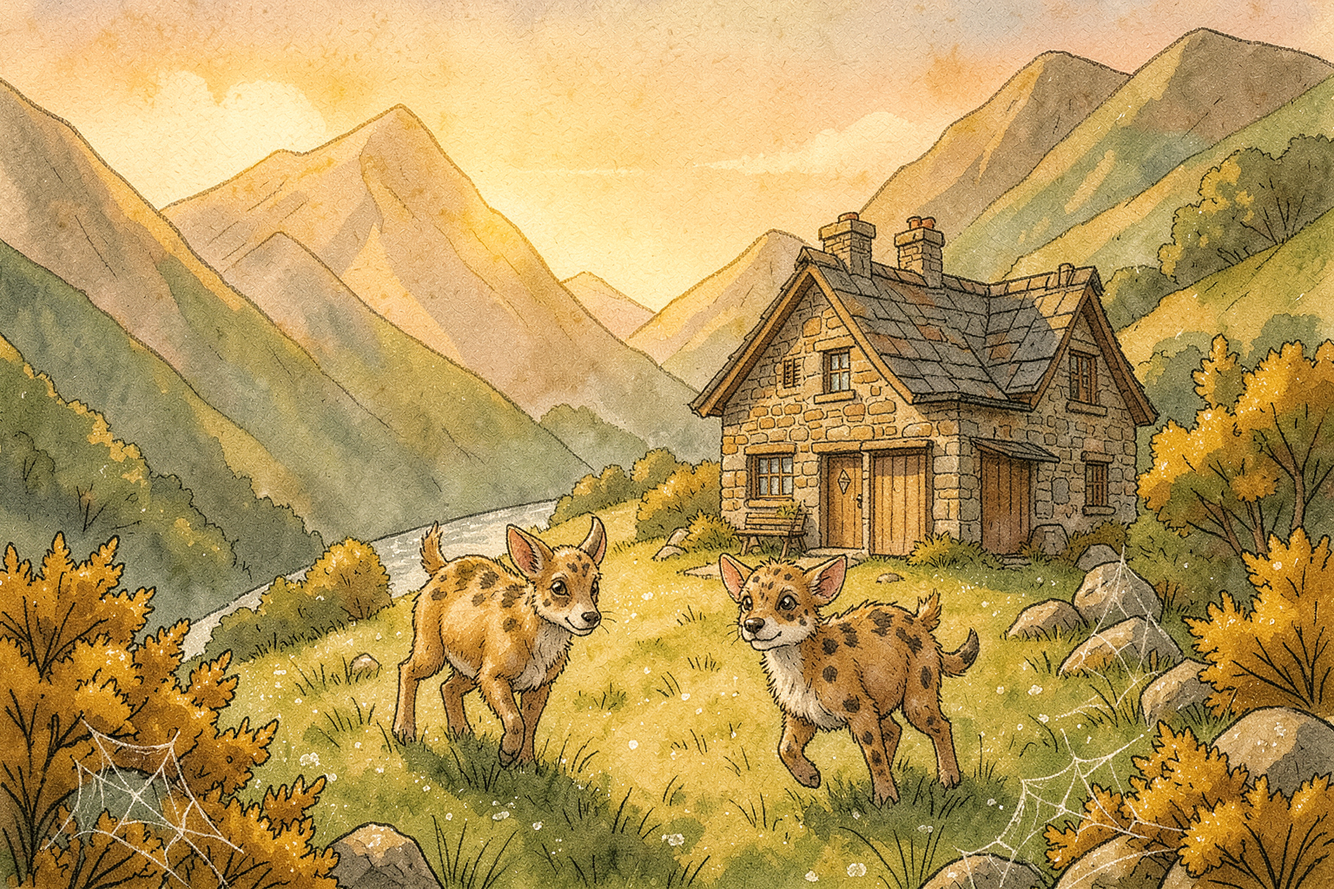
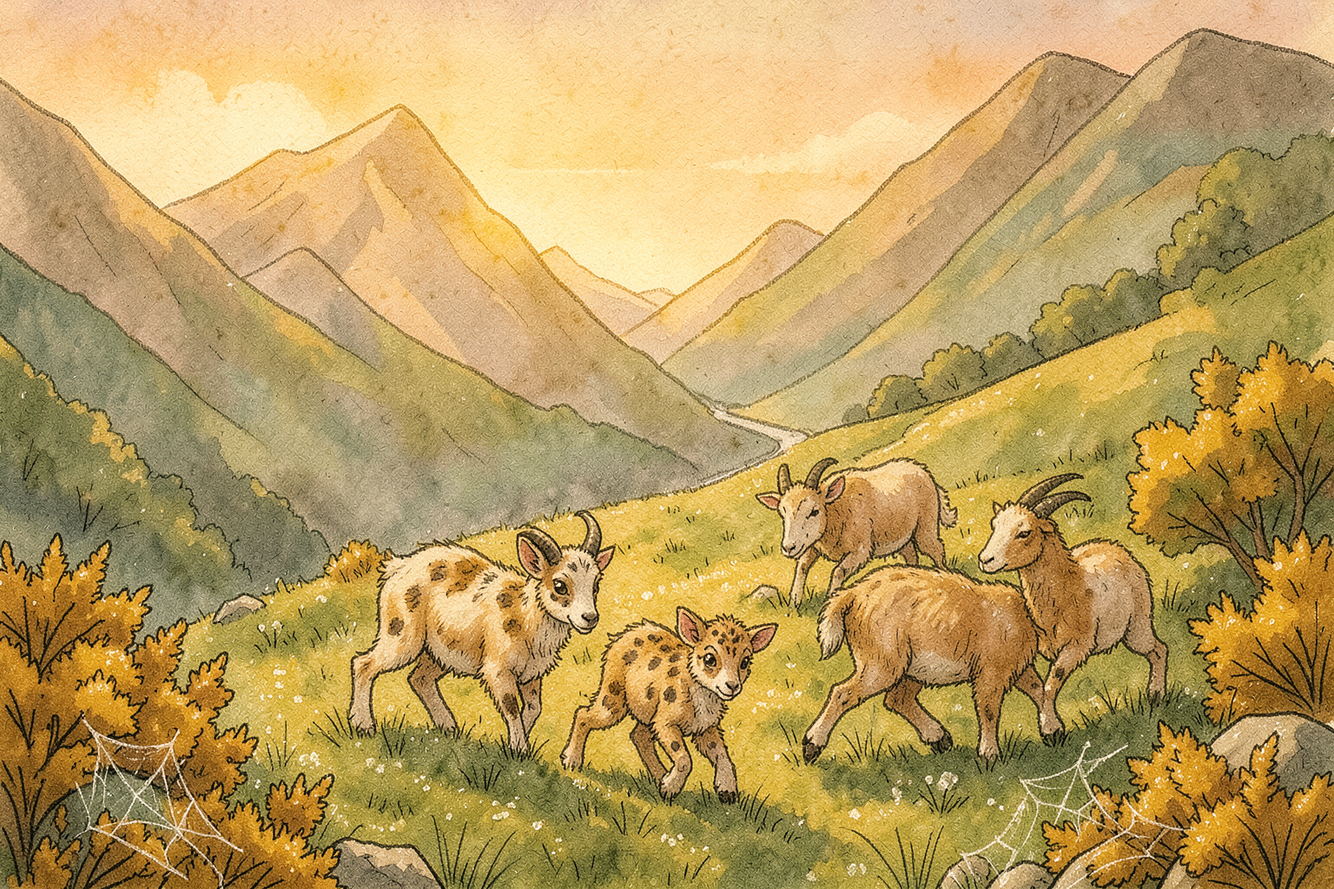
Bildprüfung: Perle 4 neu erzeugt

diff --git a/docs/art/szenen/perle-4/README.md b/docs/art/szenen/perle-4/README.md
@@ -184,3 +184,15 @@ Alle mit `tools/erzeuge-szene.ps1`, FLUX.2 klein 4B, je 6 Seeds. Übersichten: `
 | `szene-lamm-auf-der-strasse-liora` | behalten: wie Cassian |
 | `szene-freund-abgeholt-cassian` | Bildbearbeitung Seed 2: barhäuptig, eigene braune Mütze am Boden |
 | `szene-freund-abgeholt-liora` | Bildbearbeitung Seed 2: barhäuptig, eigene braune Mütze am Boden |
+
+| `figur-ashka` | neu, Seed 4: genau zwei Hände (Brust und Stab) |
+| `szene-ruf-wind` | neu, Seed 6: vier klar getrennte Gnolle; der Wind ist als weiße Wolkenbahn gemalt |
+| `szene-ruf-erde` | neu, Seed 1: getrennte Hyänen-Gnolle. Ein farbloser Hangstreifen ist in keinem Seed zu sehen |
+| `szene-landtor-morgen` | neu, Seed 5: kein Schatten des Betrachters, natürliche Berge; in der Kerbe steht in allen Seeds eine kleine Festung |
+| `szene-fremder-am-grauen` | neu, Seed 3: farbloses Feld hinter ihm mit klarer Kante, klarer Himmel, Ringzeichen als Kleeblatt |
+| `szene-ruf-wasser` | neu, Seed 3: Schäfer steht getrennt mit eigenen Beinen |
+| `szene-ruf-feuer` | neu, Seed 6: Gnolle mit Hyänenköpfen; ein grauer Schleier am Hang bleibt (in allen Seeds) |
+| `szene-nacht-das-schweigen` | neu, Seed 5: oberer Hang klar farblos mit Kante, genau ein Gnolljunges. Das Lagerfeuer brennt weiter hell (alle 6 Seeds) |
+| `szene-morgen-danach` | neu, Seed 2: Gnolljunges ohne Hörner zwischen getrennten Ziegen. Der graue Streifen fehlt |
+| `entdeckung-wollmark` | neu, Seed 3: Merla hält den Hirtenstab selbst, Pfosten mit leerem Blatt, schwarzes Zelt |
+| `szene-das-graue` | neu, Seed 4: Schafe am Rand, keine Nager, flache Wiese |
